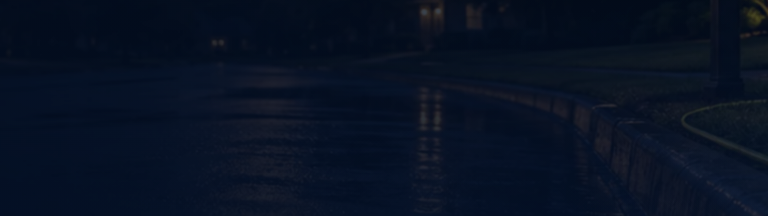
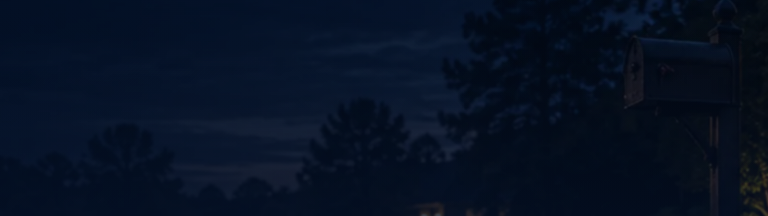
feat(cinematic): round 13 — why-join above the route, desktop hero capped and centred, hero-foot seam fixed, market grade lifted
Owner-directed (2026-09-21 evening). Harness: tsc 0, eslint clean, axe 0, Home joints <=138,
heroscrim all pass. Opus review pending; this commit is the backup before the :3122 hero port.

Claude-Session: https://claude.ai/code/session_01ECFwkjN3sjj3zTqWnUfsag

diff --git a/src/app/(cinematic)/page.tsx b/src/app/(cinematic)/page.tsx
@@ -139,7 +139,57 @@ export default function Home() {
       </section>
 
       {/* ---------------------------------------------------------------- */}
-      {/* 3 — the route: how you start                                     */}
+      {/* 3 — why people sell with 3C                                      */}
+      {/* ---------------------------------------------------------------- */}
+      {/*
+        Four facts, each already stated elsewhere on the site (the careers
+        list, the route steps, the apply page) and confirmed by the owner on
+        2026-09-21. Sits right after the work chapters and before the route,
+        so the reason to apply comes before the steps to do it (moved up from
+        below the FAQ, 2026-09-21 evening). No Apply button here: the route
+        foot below carries a quiet link and the closer carries the button.
+        The team line replaces the old second card.
+      */}
+      <section id="why" className={styles.why} aria-labelledby="why-title">
+        <div className={kit.shell}>
+          {/*
+            Four reasons as a typographic grid: a lime term over a one-line
+            fact, no rules, no cards, no icons. The FAQ further down is a
+            hairline row stack, so this block deliberately is not one.
+          */}
+          <div className={styles.whyLayout}>
+            <div className={styles.whyHead}>
+              <h2 id="why-title" className={styles.whyTitle}>
+                Why people
+                <br />
+                <span className={styles.heroLime}>sell with 3C.</span>
+              </h2>
+
+              <p className={styles.whyTeam}>
+                Already lead a sales crew? That is a different conversation, and it starts with a
+                message rather than an application.{" "}
+                <Link href="/contact" className={kit.inlineLink}>
+                  Contact the team
+                </Link>
+              </p>
+            </div>
+
+            <div className={styles.whyBody}>
+              <dl className={styles.whyList}>
+                {WHY.map(([term, fact]) => (
+                  <div key={term} className={`${styles.whyItem} ${kit.revealRise}`} data-reveal>
+                    <dt className={styles.whyTerm}>{term}</dt>
+                    <dd className={styles.whyFact}>{fact}</dd>
+                  </div>
+                ))}
+              </dl>
+            </div>
+          </div>
+        </div>
+      </section>
+
+      {/* ---------------------------------------------------------------- */}
+      {/* 4 — the route: how you start                                     */}
       {/* ---------------------------------------------------------------- */}
       <section id="start" className={styles.routeSection} data-route-section aria-labelledby="start-title">
         <div className={kit.shell}>
@@ -182,7 +232,7 @@ export default function Home() {
       </section>
 
       {/* ---------------------------------------------------------------- */}
-      {/* 4 — where                                                        */}
+      {/* 5 — where                                                        */}
       {/* ---------------------------------------------------------------- */}
       <section id="markets" className={styles.markets} aria-labelledby="markets-title">
         <div className={kit.shell}>
@@ -201,7 +251,7 @@ export default function Home() {
       </section>
 
       {/* ---------------------------------------------------------------- */}
-      {/* 5 — questions                                                    */}
+      {/* 6 — questions                                                    */}
       {/* ---------------------------------------------------------------- */}
       <section id="questions" className={styles.faq} aria-labelledby="faq-title">
         <div className={kit.shell}>
@@ -237,54 +287,6 @@ export default function Home() {
                 </div>
               </details>
             ))}
-          </div>
-        </div>
-      </section>
-
-      {/* ---------------------------------------------------------------- */}
-      {/* 6 — why people sell with 3C                                      */}
-      {/* ---------------------------------------------------------------- */}
-      {/*
-        Four facts, each already stated elsewhere on the site (the careers
-        list, the route steps, the apply page) and confirmed by the owner on
-        2026-09-21. No Apply button here: the closer one screen down carries
-        the page's last one, so the reader is not asked twice on one navy.
-        The team line replaces the old second card.
-      */}
-      <section id="why" className={styles.why} aria-labelledby="why-title">
-        <div className={kit.shell}>
-          {/*
-            Four reasons as a typographic grid: a lime term over a one-line
-            fact, no rules, no cards, no icons. The FAQ two sections up is a
-            hairline row stack, so this block deliberately is not one.
-          */}
-          <div className={styles.whyLayout}>
-            <div className={styles.whyHead}>
-              <h2 id="why-title" className={styles.whyTitle}>
-                Why people
-                <br />
-                <span className={styles.heroLime}>sell with 3C.</span>
-              </h2>
-
-              <p className={styles.whyTeam}>
-                Already lead a sales crew? That is a different conversation, and it starts with a
-                message rather than an application.{" "}
-                <Link href="/contact" className={kit.inlineLink}>
-                  Contact the team
-                </Link>
-              </p>
-            </div>
-
-            <div className={styles.whyBody}>
-              <dl className={styles.whyList}>
-                {WHY.map(([term, fact]) => (
-                  <div key={term} className={`${styles.whyItem} ${kit.revealRise}`} data-reveal>
-                    <dt className={styles.whyTerm}>{term}</dt>
-                    <dd className={styles.whyFact}>{fact}</dd>
-                  </div>
-                ))}
-              </dl>
-            </div>
           </div>
         </div>
       </section>

diff --git a/src/app/(cinematic)/cinematic-home.module.css b/src/app/(cinematic)/cinematic-home.module.css
@@ -22,6 +22,20 @@
   position: relative;
 }
 
+/*
+  Desktop: the copy used to sit at the foot of a full-viewport frame, which
+  left ~500px of scrimmed sky above the headline at 1740x1000 (owner, round
+  13). The frame is capped short of the viewport and the copy is centred in
+  what is left, so the headline sits beside the lit door instead of under
+  it. Phones keep the full frame with the copy at the foot (heroscrim-tuned).
+*/
+@media (min-width: 64rem) {
+  .hero {
+    justify-content: center;
+    min-height: clamp(44rem, 88svh, 58rem);
+  }
+}
+
 .heroArt {
   inset: -28px;
   position: absolute;
@@ -52,15 +66,22 @@
   readable as a photograph.
 */
 .heroScrim {
+  /*
+    The vertical fade sits on top so its last stop (opaque --ink) is the
+    exact colour of the section below: with the side wash on top, the foot
+    of the hero read a step darker than the work section and the frame
+    edge showed as a horizontal line once the hero stopped filling the
+    viewport (round 13).
+  */
   background:
+    linear-gradient(180deg, rgba(3, 13, 31, 0.72) 0%, rgba(3, 13, 31, 0.18) 34%, rgba(6, 23, 53, 0.9) 84%, var(--ink) 100%),
     linear-gradient(
       100deg,
       rgba(3, 13, 31, 0.86) 0%,
       rgba(3, 13, 31, 0.62) 38%,
       rgba(3, 13, 31, 0.12) 72%,
       rgba(3, 13, 31, 0.3) 100%
-    ),
-    linear-gradient(180deg, rgba(3, 13, 31, 0.72) 0%, rgba(3, 13, 31, 0.18) 34%, rgba(6, 23, 53, 0.9) 84%, var(--ink) 100%);
+    );
   inset: 0;
   position: absolute;
   z-index: 1;
@@ -124,7 +145,9 @@
 
 .work {
   composes: surfaceInk from "../_cinematic/cinematic.module.css";
-  padding: var(--section-pad) 0 clamp(1rem, 1.6vw, 1.75rem);
+  /* Round 13: the why block follows on the same navy (it used to hand off to
+     the paper route through a seam), so the chapters need a real foot. */
+  padding: var(--section-pad) 0 clamp(2rem, 3vw, 3.5rem);
   position: relative;
 }
 
@@ -675,12 +698,14 @@
   and they stay real: the owner asked for accurate market cards. What they get
   is the page's grade — a navy multiply from the sky down and a warmer floor —
   so they sit in the dusk key of every other frame instead of being the one
-  midday picture between two navy bands.
+  midday picture between two navy bands. Round 13 lifted the grade a step
+  (owner: the full grade lost welcome colour and energy); the sky still
+  reads evening, the foliage and facades keep more of their own colour.
 */
 .cityPlateArt::after {
   background:
-    linear-gradient(180deg, rgba(3, 13, 31, 0.82) 0%, rgba(3, 13, 31, 0.5) 45%, rgba(3, 13, 31, 0.3) 100%),
-    linear-gradient(180deg, rgba(0, 0, 0, 0) 60%, rgba(120, 70, 20, 0.28) 100%);
+    linear-gradient(180deg, rgba(3, 13, 31, 0.7) 0%, rgba(3, 13, 31, 0.4) 45%, rgba(3, 13, 31, 0.22) 100%),
+    linear-gradient(180deg, rgba(0, 0, 0, 0) 60%, rgba(120, 70, 20, 0.22) 100%);
   content: "";
   inset: 0;
   mix-blend-mode: multiply;
@@ -689,7 +714,7 @@
 }
 
 .cityPlateImage {
-  filter: saturate(0.72) brightness(0.92) contrast(1.06);
+  filter: saturate(0.84) brightness(0.96) contrast(1.05);
   object-fit: cover;
   opacity: 0;
   transform: scale(1.04);
@@ -835,7 +860,10 @@
 
 .why {
   composes: surfaceInk from "../_cinematic/cinematic.module.css";
-  padding: var(--section-pad) 0 clamp(3.5rem, 6vw, 5.5rem);
+  /* Round 13: hands into the paper route through the seam, so the foot is
+     short like the other navy-to-paper joints (it used to sit above the
+     navy closer and needed a real one). */
+  padding: var(--section-pad) 0 clamp(1.5rem, 2.5vw, 2.75rem);
 }
 
 /*
